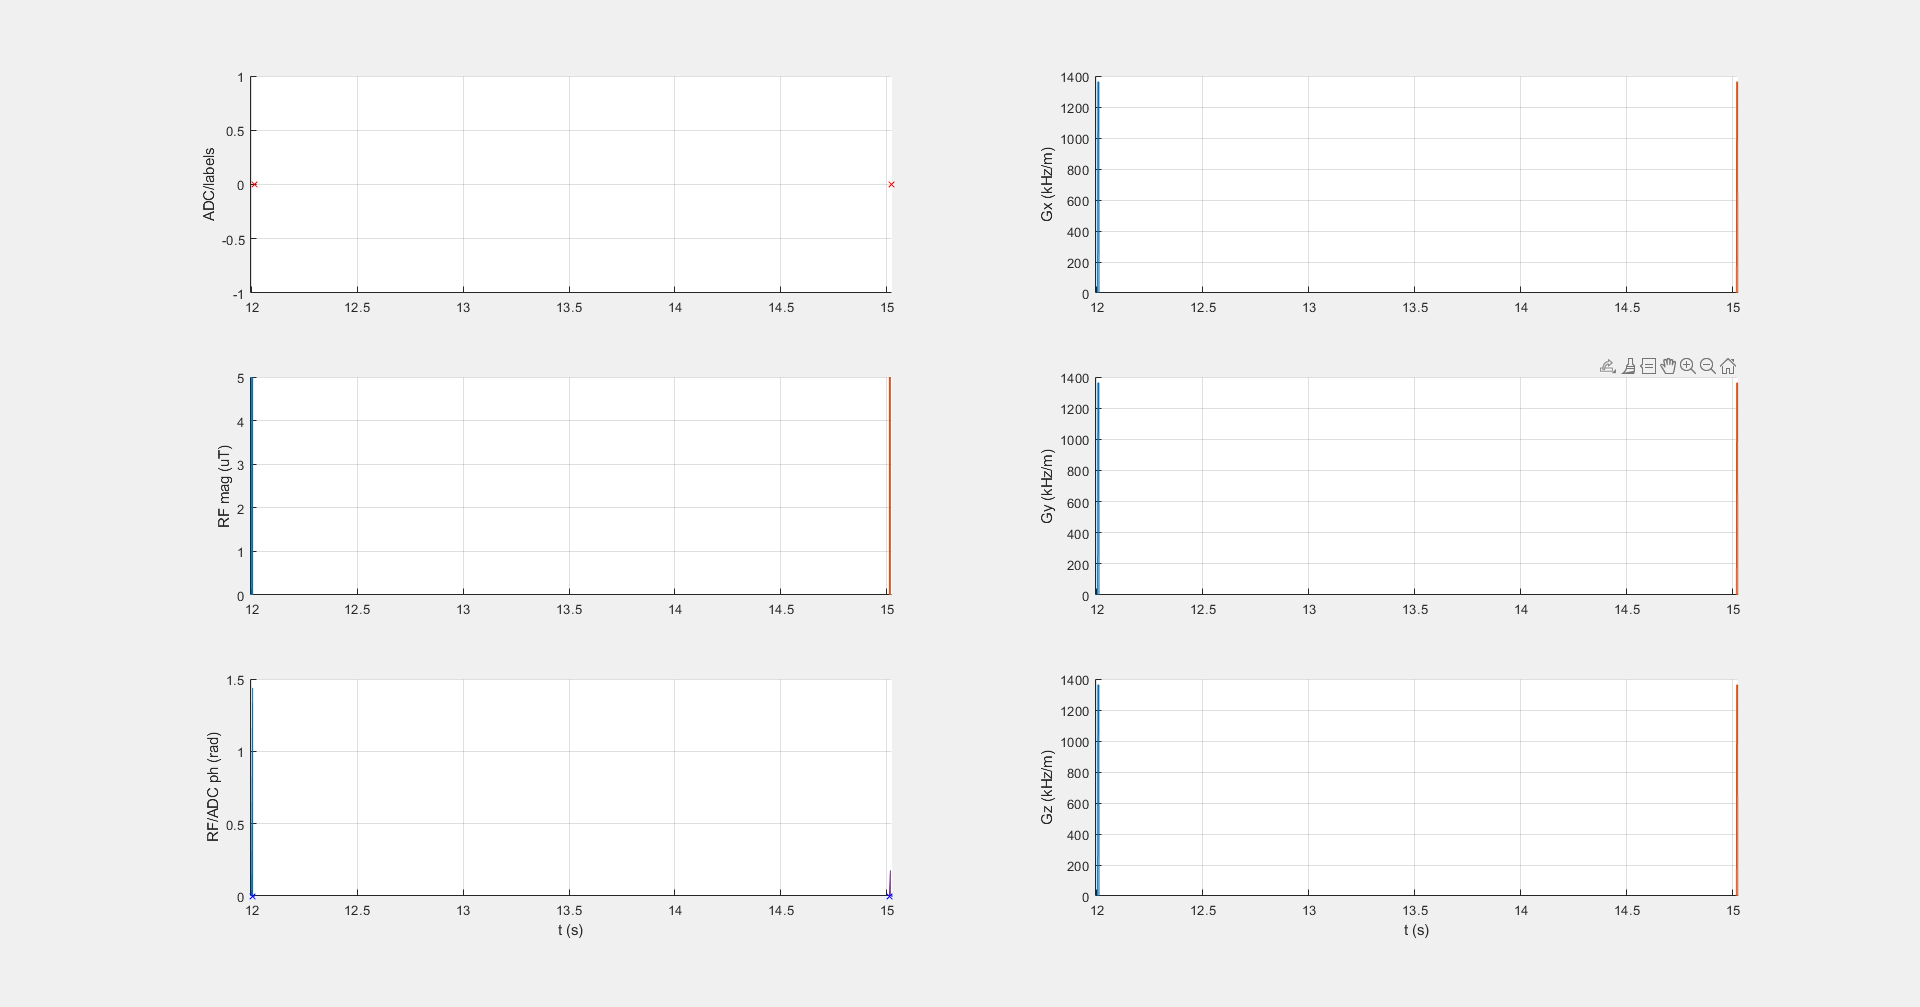
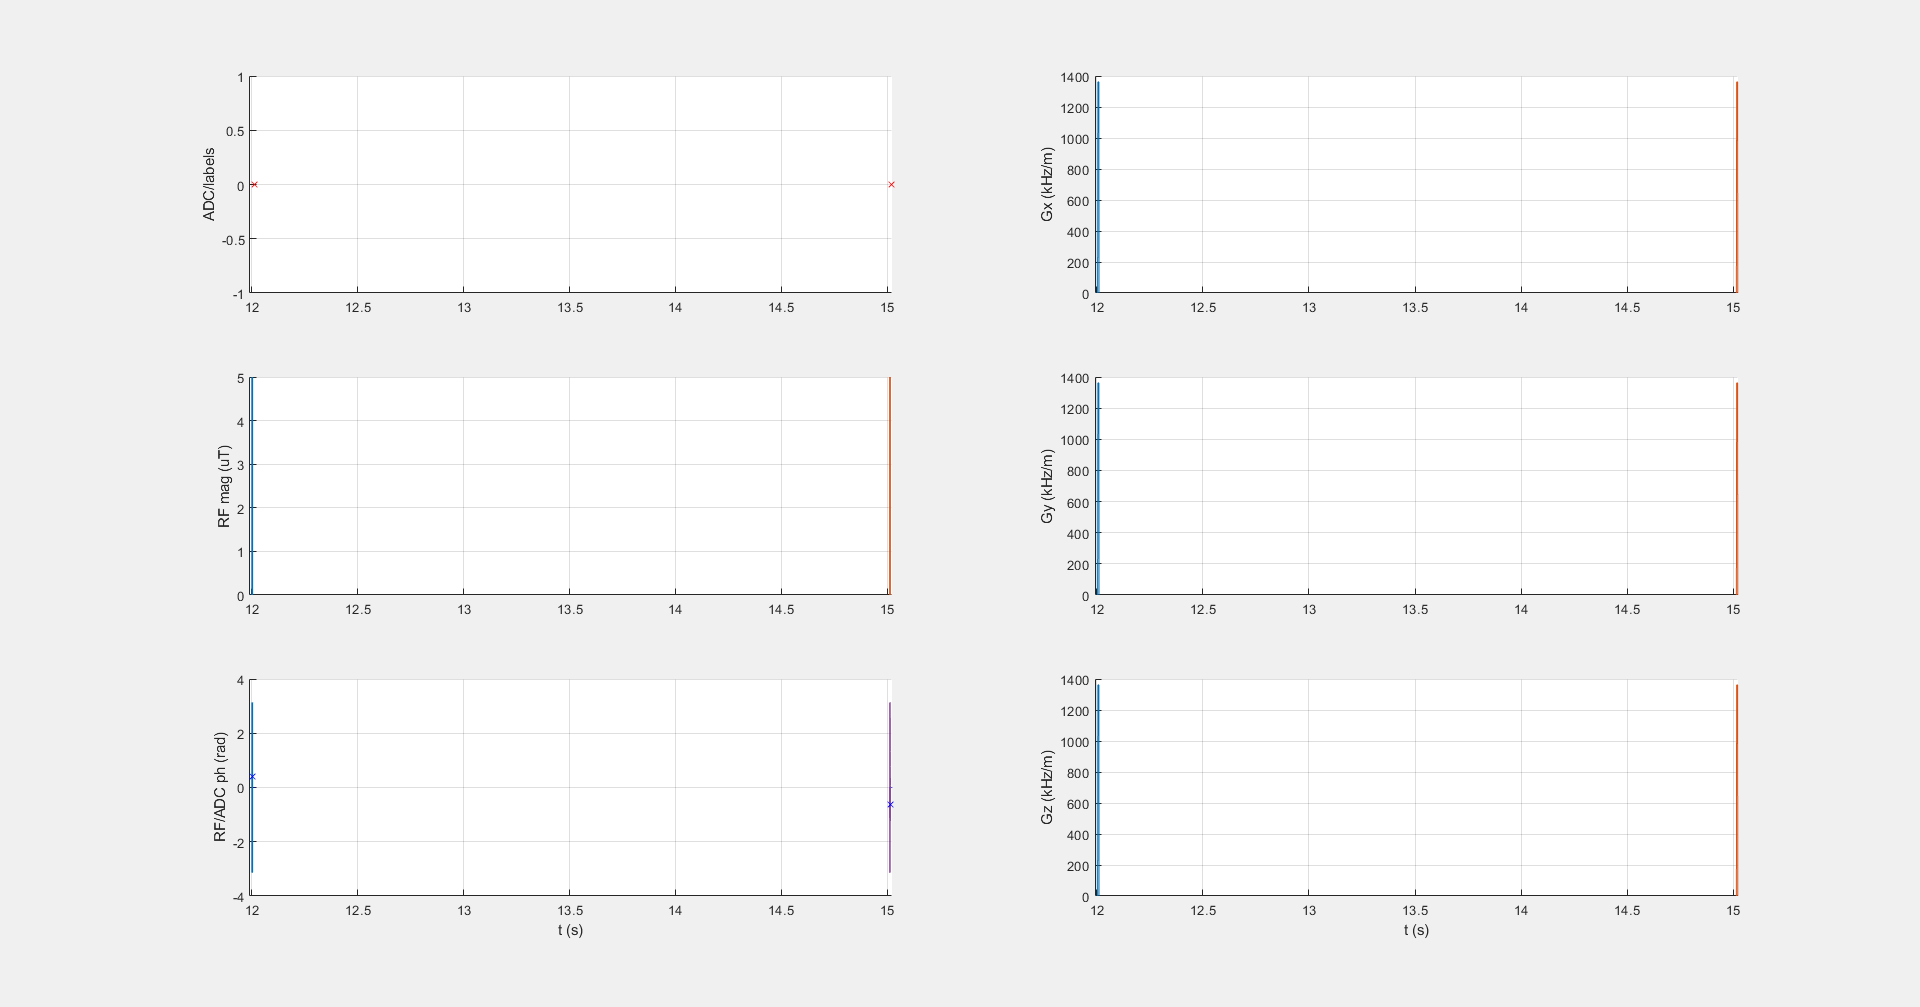
A) Changes in WASABI_7T  (Pulseq Version 1.3)       (i)  tp adjusted in .m file       (ii) generated seq , txt, png files have now also the adjusted tp
B) WASABITI              (Pulseq Version 1.3)
       (i)  added definition of B0 , as this information was missing
       (ii)    generated seq , txt, png files have now also the adjusted tp

Changed region(s): [[0.0938, 0.7388, 0.125, 0.8312], [0.8438, 0.3386, 0.9062, 0.3694]]

diff --git a/seq-library/WASABIT1_3T_001_3p7uT_1block_5p12ms/WASABIT1_3T_001_3p7uT_1block_5p12ms.m b/seq-library/WASABIT1_3T_001_3p7uT_1block_5p12ms/WASABIT1_3T_001_3p7uT_1block_5p12ms.m
@@ -26,6 +26,7 @@ defs.offsets_ppm   = [-300 -4 -3.73333333 -3.46666667 -3.2 -2.93333333 -2.666666
 defs.num_meas      = numel(defs.offsets_ppm); % number of repetition
 defs.seq_id_string = seqid           ; % unique seq id
 defs.FREQ		   = 127.7292;          % Approximately 3 T 
+defs.B0            = defs.FREQ/(gamma_hz);  % Calculate B0   
 defs.B1pa        = 3.7;  % mean sat pulse b1 [uT]
 defs.spoiling    = 1;     % 0=no spoiling, 1=before readout, Gradient in x,y,z
 

diff --git a/seq-library/WASABI_7T_001_5p12uT_1block_3p7ms/WASABI_7T_001_5p12uT_1block_3p7ms.m b/seq-library/WASABI_7T_001_5p12uT_1block_3p7ms/WASABI_7T_001_5p12uT_1block_3p7ms.m
@@ -6,7 +6,7 @@
 
 
 % author name for sequence file
-author = 'Moritz Fabian';
+author = 'Moritz Fabian and Jan Schüre';
 
 %% get id of generation file
 if contains(mfilename, 'LiveEditorEvaluationHelperESectionEval')
